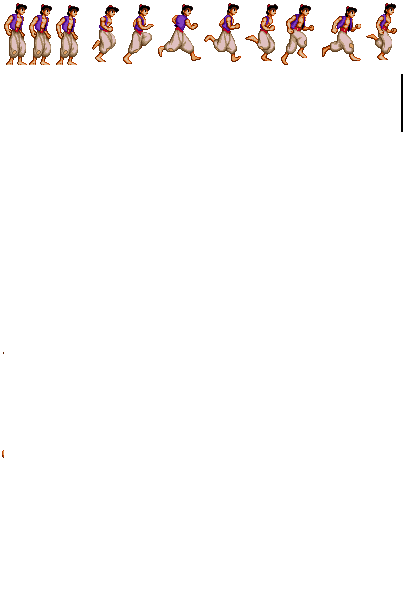
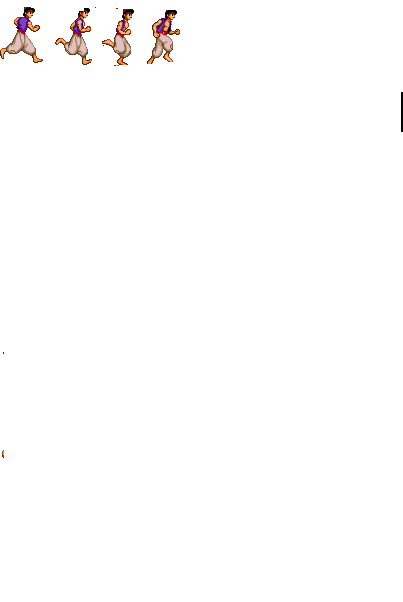
add movement

diff --git a/window.c b/window.c
@@ -34,6 +34,8 @@ void init_content(backgrd *run, backgrd *run2)
     run2->bgrd_spr = sfSprite_create();
     sfSprite_setTexture(run2->bgrd_spr, run2->bgrd, true);
     sfSprite_setScale(run2->bgrd_spr, (sfVector2f) {2, 2});
+    run2->mv.x = 0;
+    run2->mv.y = 0;
 }
 
 void init_ground(platform *grd, int x)
@@ -42,7 +44,7 @@ void init_ground(platform *grd, int x)
     grd->ground[x].plt_frm_spr = sfSprite_create();
     sfSprite_setTexture(grd->ground[x].plt_frm_spr, grd->ground[x].plt_frm, true);
     sfSprite_setScale(grd->ground[x].plt_frm_spr, (sfVector2f) {2, 2});
-    grd->ground[x].mv.x = 184 * x;
+    grd->ground[x].mv.x = 184 * (x - 1);
     grd->ground[x].mv.y = 720;
     sfSprite_setPosition(grd->ground[x].plt_frm_spr, grd->ground[x].mv);  
 }
@@ -56,62 +58,122 @@ void init_player(player *alex)
     sfSprite_setScale(alex->ply_spr, (sfVector2f) {2, 2});
     alex->rect.top = 0;
     alex->rect.left = 0;
-    alex->rect.width = 27;
+    alex->rect.width = 45;
     alex->rect.height = 110;
     sfSprite_setTextureRect(alex->ply_spr, alex->rect);
 }
 
-void draw_grd(window *ptr, platform *grd)
+void draw_grd_r(window *ptr, platform *grd, backgrd *run2)
 {
     sfVector2f location;
-    for (int i = 0; i < 9; i++)
-        sfRenderWindow_drawSprite(ptr->window, grd->ground[i].plt_frm_spr, NULL);
-    for (int i = 0; i < 9; i++) {
+    for (int i = 0; i < 10; i++) {
         location = sfSprite_getPosition(grd->ground[i].plt_frm_spr);
         if (location.x < -249) {
             grd->ground[i].mv.x = 1400;
             sfSprite_setPosition(grd->ground[i].plt_frm_spr, grd->ground[i].mv);
         } else {
-            grd->ground[i].mv.x -= 0.1;
+            grd->ground[i].mv.x -= 8;
             sfSprite_setPosition(grd->ground[i].plt_frm_spr, grd->ground[i].mv);
         }
+    }
+    run2->mv.x -= 8;
+    sfSprite_setPosition(run2->bgrd_spr, run2->mv);
+    if (run2->mv.x < -1694)
+        run2->mv.x = 1400;
+}
+
+void draw_grd_l(window *ptr, platform *grd, backgrd *run2)
+{
+    sfVector2f location;
+    for (int i = 0; i < 10; i++) {
+        location = sfSprite_getPosition(grd->ground[i].plt_frm_spr);
+        if (location.x > 1400) {
+            grd->ground[i].mv.x = -184;
+            sfSprite_setPosition(grd->ground[i].plt_frm_spr, grd->ground[i].mv);
+        } else {
+            grd->ground[i].mv.x += 8;
+            sfSprite_setPosition(grd->ground[i].plt_frm_spr, grd->ground[i].mv);
+        }
+    }
+    run2->mv.x += 8;
+    sfSprite_setPosition(run2->bgrd_spr, run2->mv);
+    if (run2->mv.x > 1800)
+        run2->mv.x = -1694;
+}
+
+void move_rect(sfIntRect *rect, int max_value)
+{
+    if (rect->left == max_value)
+        rect->left = 0;
+    else
+        rect->left = rect->left + 45;
+}
+
+void my_free(backgrd *run, backgrd *run2, platform *grd, player *alex)
+{
+    sfTexture_destroy(run->bgrd);
+    sfTexture_destroy(alex->ply);
+    sfTexture_destroy(run2->bgrd);
+    for (int i = 0; i < 10; i++)
+        sfTexture_destroy(grd->ground[i].plt_frm);
+    sfSprite_destroy(run->bgrd_spr);
+    sfSprite_destroy(alex->ply_spr);
+    sfSprite_destroy(run2->bgrd_spr);
+    for (int i = 0; i < 10; i++)
+        sfSprite_destroy(grd->ground[i].plt_frm_spr);
+    free(run2);
+    free(run);
+    free(alex);
+    free(grd);
+}
+
+void draw_backgrd(backgrd *run, backgrd *run2, player *alex, window *ptr)
+{
+    sfRenderWindow_display(ptr->window);
+    sfRenderWindow_drawSprite(ptr->window, run->bgrd_spr, NULL);
+    sfRenderWindow_drawSprite(ptr->window, run2->bgrd_spr, NULL);
+    sfRenderWindow_drawSprite(ptr->window, alex->ply_spr, NULL);    
+}
+
+void game_event(window *ptr, platform *grd, player *alex, backgrd *run2, timer *chrono)
+{
+    while (sfRenderWindow_pollEvent(ptr->window,&ptr->event)) {
+        if (ptr->event.type == sfEvtKeyPressed) {
+            if (chrono->seconds > 0.1) {
+                move_rect(&alex->rect, 135);
+                sfSprite_setTextureRect(alex->ply_spr, alex->rect);
+                sfClock_restart(chrono->clk);
+            }
+            if (ptr->event.key.code == sfKeyRight)
+                draw_grd_r(ptr, grd, run2);
+            if (ptr->event.key.code == sfKeyLeft)
+                draw_grd_l(ptr, grd, run2);
+        }
+        close_event(ptr);
     }
 }
 
 void windows(window *ptr)
 {
-    init_windata(ptr); sfVector2f house = {0, 0};
+    init_windata(ptr);
     backgrd *run = (backgrd *)malloc(sizeof(backgrd));
     backgrd *run2 = (backgrd *)malloc(sizeof(backgrd));
     platform *grd = (platform *)malloc(sizeof(platform));
     player *alex = (player *)malloc(sizeof(player));
+    timer *chrono = (timer *)malloc(sizeof(timer));
+    chrono->clk = sfClock_create();
     init_player(alex);
     init_content(run, run2);
-    for (int i = 0; i < 9; i++)
+    for (int i = 0; i < 10; i++)
         init_ground(grd, i);
     while (sfRenderWindow_isOpen(ptr->window)) {
-        sfRenderWindow_display(ptr->window);
-        sfRenderWindow_drawSprite(ptr->window, run->bgrd_spr, NULL);
-        sfRenderWindow_drawSprite(ptr->window, run2->bgrd_spr, NULL);
-        sfRenderWindow_drawSprite(ptr->window, alex->ply_spr, NULL);
-        draw_grd(ptr, grd);
-        house.x -= 0.1;
-        sfSprite_setPosition(run2->bgrd_spr, house);
-        if (house.x < -1694)
-            house.x = 1400;
-        while (sfRenderWindow_pollEvent(ptr->window,&ptr->event)) {
-            close_event(ptr);
-        }
+        chrono->time = sfClock_getElapsedTime(chrono->clk);
+        chrono->seconds = chrono->time.microseconds / 100000;
+        draw_backgrd(run, run2, alex, ptr);
+        for (int i = 0; i < 10; i++)
+            sfRenderWindow_drawSprite(ptr->window, grd->ground[i].plt_frm_spr, NULL);
+        game_event(ptr, grd, alex, run2, chrono);
     }
-    sfTexture_destroy(run->bgrd);
-    sfTexture_destroy(alex->ply);
-    sfTexture_destroy(run2->bgrd);
-    for (int i = 0; i < 9; i++)
-        sfTexture_destroy(grd->ground[i].plt_frm);
-    sfSprite_destroy(run->bgrd_spr);
-    sfSprite_destroy(alex->ply_spr);
-    sfSprite_destroy(run2->bgrd_spr);
-    for (int i = 0; i < 9; i++)
-        sfSprite_destroy(grd->ground[i].plt_frm_spr);
+    my_free(run, run2, grd, alex);
     destroy_windata(ptr);
 }

diff --git a/player.h b/player.h
@@ -20,6 +20,7 @@ typedef struct player {
 typedef struct backgrd {
     sfSprite *bgrd_spr;
     sfTexture *bgrd;
+    sfVector2f mv;
 } backgrd;
 
 typedef struct pm {
@@ -29,7 +30,7 @@ typedef struct pm {
 } pm;
 
 typedef struct platform {
-    pm ground[9];
+    pm ground[10];
 } platform;
 
 typedef struct timer {

diff --git a/window.h b/window.h
@@ -5,7 +5,12 @@
 ** window header
 */
 #include<SFML/Graphics/RenderWindow.h>
+#include<time.h>
+#include<SFML/System.h>
 #include <stdio.h>
+#include<SFML/Graphics.h>
+#include<SFML/Graphics/RenderWindow.h>
+#include<SFML/System.h>
 #include <SFML/Graphics.h>
 #ifndef WINDOW_H_
     #define WINDOW_H_
